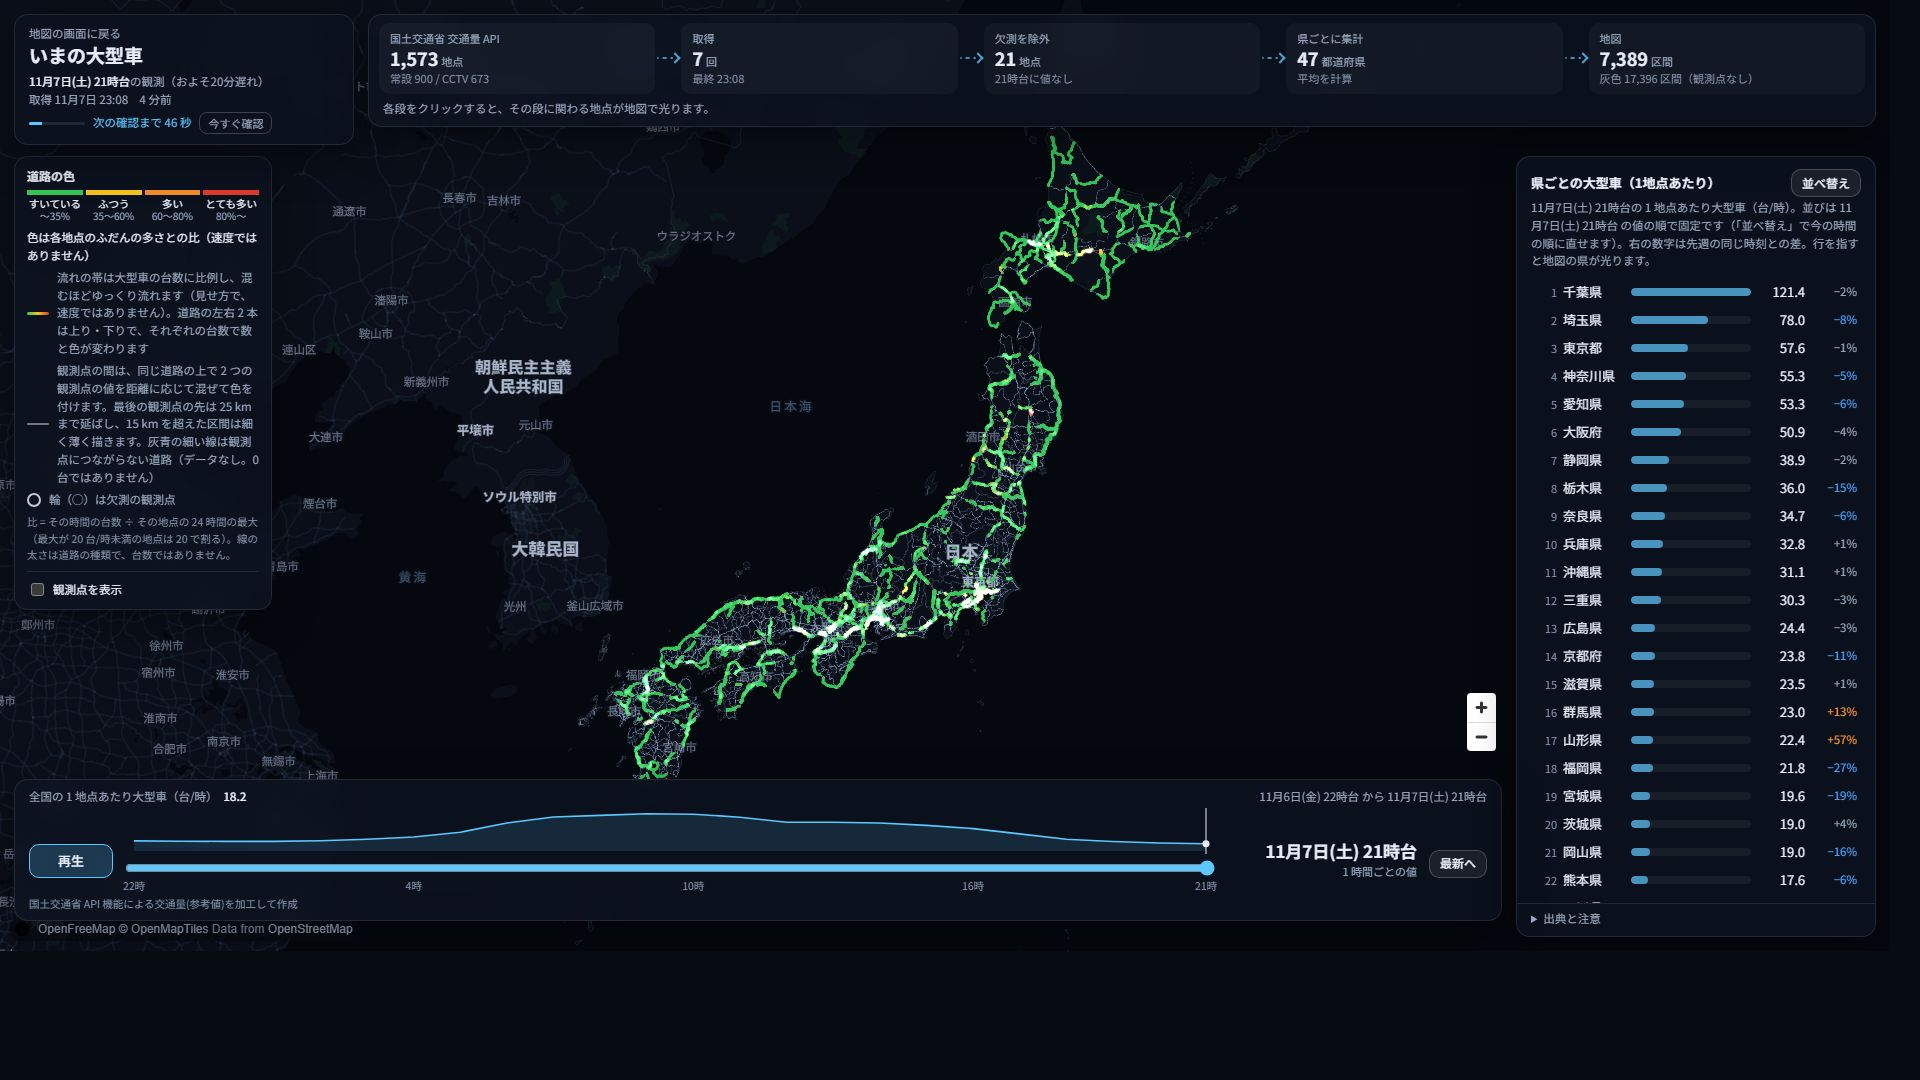
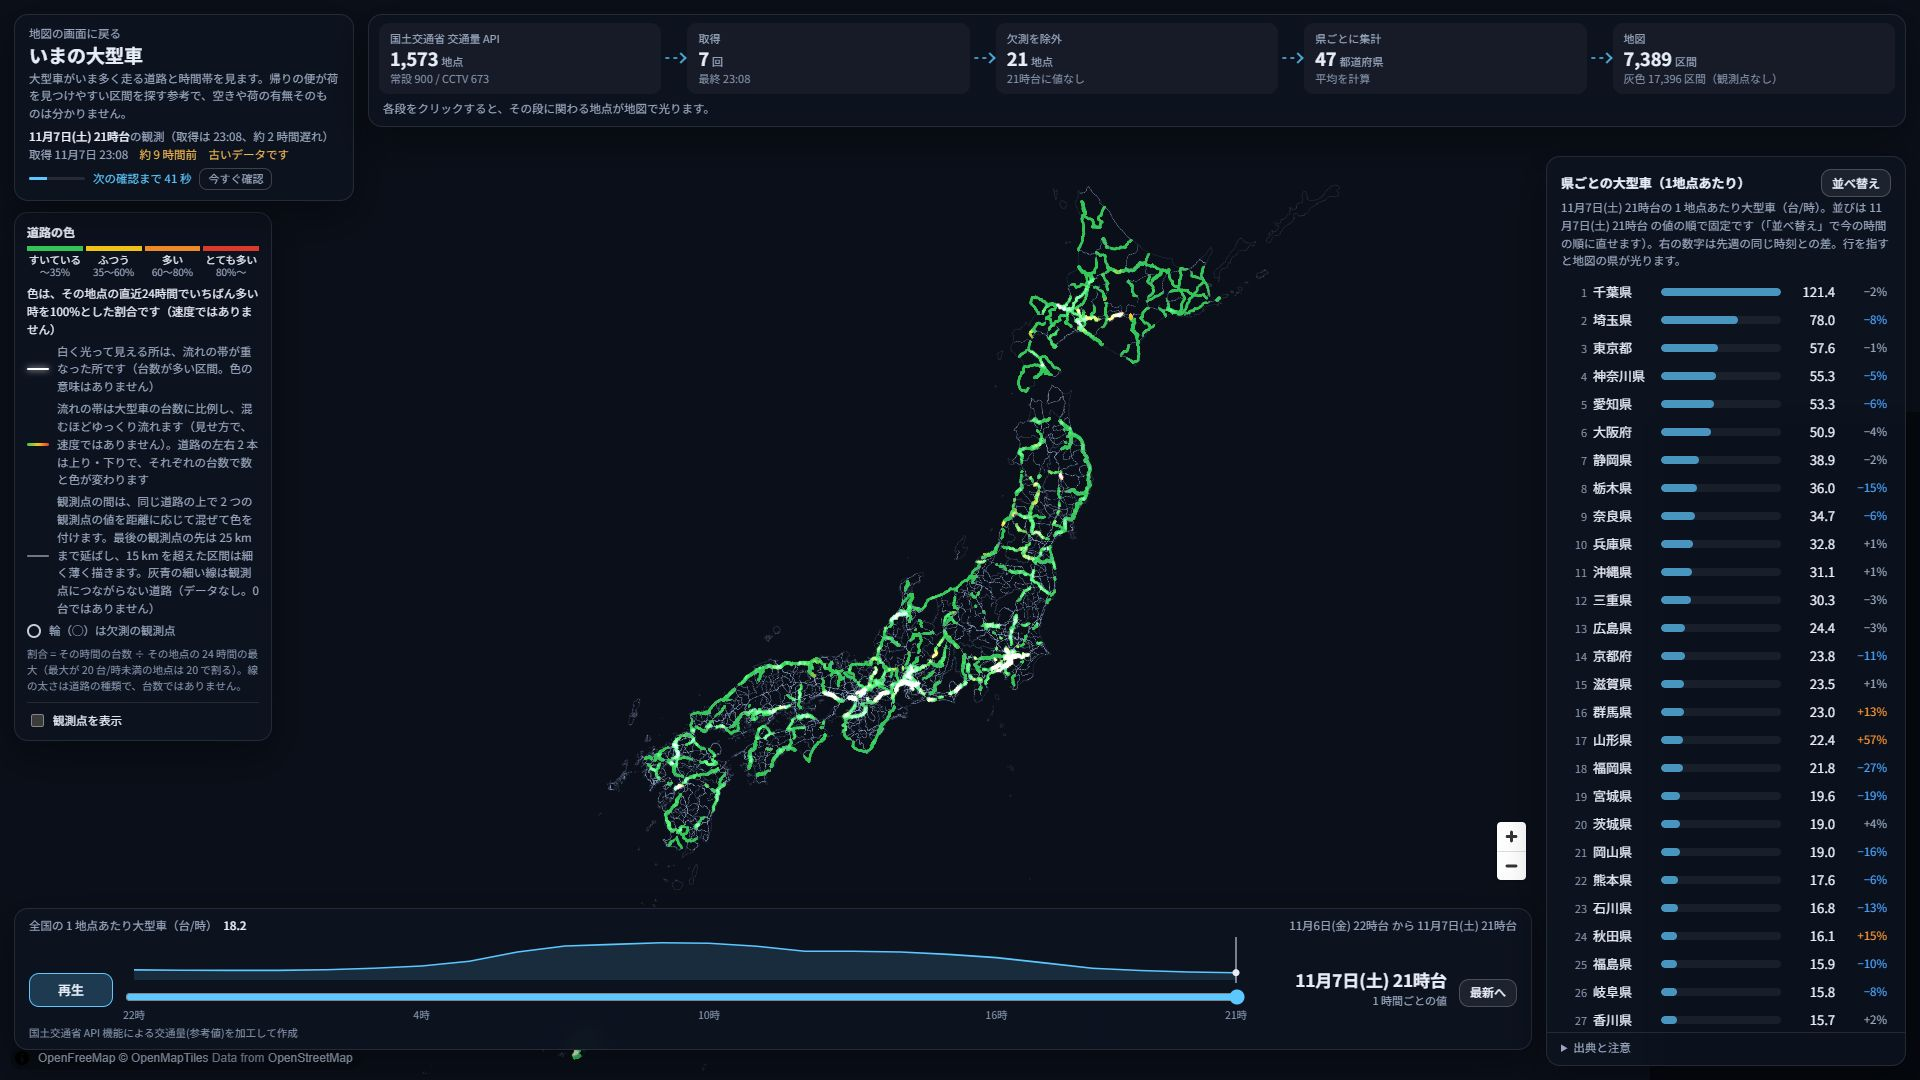
README: retake screenshots on the current build; add a shipper-side figure
採点 r4c の P1: 比べるページの画像が古い版のまま（使える送り方 5）だった。5 枚とも今の版で撮り直した。荷主の側の困りごとに、一次資料で照合済みの数字（物流費の増加を価格に転嫁できていない中小企業 67.7%、日商 2024、課題の出典 A2）を足した。

diff --git a/README.md b/README.md
@@ -30,9 +30,10 @@
 |---:|---|---|
 | 69% と 21% | 荷待ちが起きていると答えた割合。実運送の会社は約 69%、荷主（出荷）は約 21% | 国土交通省「トラック輸送状況の実態調査」（荷主 666 社・運送事業者 984 社、2022 年） |
 | 3〜5 割 | 荷役料金・待機時間料を荷主から受け取れている実運送の会社 | 国土交通省「『標準的な運賃』の見直しについて」2024-01（令和 3 年度の実態調査） |
+| 67.7% | 物流費が上がったと答えた中小企業のうち、その分を価格に転嫁できていない割合（荷主の側の困りごと） | 日本商工会議所「中小企業における物流効率化の取組み等について」2024-08（有効回答 1,994 社） |
 | 1 年 | 2025 年 4 月から、10 両以下の会社も全車両で、荷待ち 30 分以上・荷役 1 時間以上を業務記録に書き、1 年残す義務がある | 貨物自動車運送事業輸送安全規則 第 8 条第 1 項第 7 号・第 8 号 |
 
-一次資料での照合は [docs/plan/2026-11-03_課題の出典.md](docs/plan/2026-11-03_課題の出典.md)（B6・B9、照合 111 件・不一致 0 件）と [docs/plan/2026-11-04_自社データの形と記録義務の調査.md](docs/plan/2026-11-04_自社データの形と記録義務の調査.md) にあります。
+一次資料での照合は [docs/plan/2026-11-03_課題の出典.md](docs/plan/2026-11-03_課題の出典.md)（A2・B6・B9、照合 111 件・不一致 0 件）と [docs/plan/2026-11-04_自社データの形と記録義務の調査.md](docs/plan/2026-11-04_自社データの形と記録義務の調査.md) にあります。
 
 ## 届いていない人と、その人を阻む壁
 
@@ -74,7 +75,7 @@
 
 ![採点の推移](docs/assets/2026-11-07_score_history.svg)
 
-6 日間で 291 件のコミットと 2,189 件の自動試験を作りました。前の点を知らない Opus に、審査員・配車担当・荷主の役で採点させ、点が頭打ちになったら基準か作り方を替えました（採点・監査の記録 101 件）。最初に作った見積比較の画面は 11/3 に捨て、地図を中心に作り直しています。
+6 日間で 292 件のコミットと 2,193 件の自動試験を作りました。前の点を知らない Opus に、審査員・配車担当・荷主の役で採点させ、点が頭打ちになったら基準か作り方を替えました（採点・監査の記録 101 件）。最初に作った見積比較の画面は 11/3 に捨て、地図を中心に作り直しています。
 
 | 日 | 分かったこと | 変えたこと |
 |---|---|---|
@@ -127,7 +128,7 @@
 
 | 日 | 11/3 | 11/4 | 11/5 | 11/6 | 11/7 | 11/8 |
 |---|---:|---:|---:|---:|---:|---:|
-| コミット | 42 | 16 | 72 | 38 | 60 | 63 |
+| コミット | 42 | 16 | 72 | 38 | 60 | 64 |
 
 キックオフは 2026-11-02 12:00 です。
 
@@ -167,7 +168,7 @@ uv run pytest -n 8
 | `tools/serve_web.py` | 標準ライブラリだけの配信サーバーと API |
 | `web/` | 地図の画面（MapLibre + deck.gl）とファイル 1 枚のページ。`own_calc.js`・`waiting_calc.js` は Python と同じ結果になる JS（共通の試験表で確かめる） |
 | `data/` | 運賃・標準的運賃の表・場面・架空の便とサンプル（出典・確認日つき） |
-| `tests/` | 自動試験 2,189 件。GitHub Actions でも流す（`.github/workflows/test.yml`） |
+| `tests/` | 自動試験 2,193 件。GitHub Actions でも流す（`.github/workflows/test.yml`） |
 
 ## もっと読む
 

diff --git a/docs/CLAUDE_USAGE.md b/docs/CLAUDE_USAGE.md
@@ -13,8 +13,8 @@
 | サブエージェントの起動 | 298 回 | Agent の呼び出し |
 | サブエージェントの応答のうち Sonnet | 74%（Sonnet 24,365・Opus 8,691・Haiku 7） | サブエージェントの記録の model |
 | Workflow（複数の採点者を同時に動かす台本） | 11 回 | Workflow の呼び出し |
-| コミット | 291 | `git rev-list --count origin/claude/exciting-bell-uj2kvl` |
-| 自動試験 | 2,189 件 | `uv run pytest --collect-only -q` |
+| コミット | 292 | `git rev-list --count origin/claude/exciting-bell-uj2kvl` |
+| 自動試験 | 2,193 件 | `uv run pytest --collect-only -q` |
 | 採点・監査の記録 | 101 件 | `docs/reviews/*.md` |
 | 一次資料の照合 | 111 件（不一致 0 件） | `docs/plan/2026-11-03_課題の出典.md` |
 
@@ -22,7 +22,7 @@
 
 | 1 人では難しいこと | Claude Code でどうしたか | 記録 |
 |---|---|---|
-| 6 日で、試験 2,189 件つきのアプリを作る | 本線が仕様と受入条件を書き、coder（Sonnet）を git worktree で最大 5 人同時に動かした。実行中の coder に SendMessage で直しを足した | `SPEC.md` の §1〜§53 |
+| 6 日で、試験 2,193 件つきのアプリを作る | 本線が仕様と受入条件を書き、coder（Sonnet）を git worktree で最大 5 人同時に動かした。実行中の coder に SendMessage で直しを足した | `SPEC.md` の §1〜§53 |
 | 自分の作ったものを、甘くない目で何度も採点する | 前の点を知らない新しい Opus に、審査員・配車担当・荷主の役で採点させ、点が頭打ちになったら基準を替えた（第 1〜8 部） | [試行錯誤の記録](試行錯誤の記録.md) |
 | 物流の実体験が無いまま、法令と統計で課題を確かめる | researcher（Opus）が一次資料を開いて照合し、ページと表の位置まで記録した | `docs/plan/2026-11-03_課題の出典.md`、`2026-11-04_自社データの形と記録義務の調査.md` |
 | 3D・画像・動画の編集を 1 人で回す | Blender・ComfyUI・DaVinci Resolve を MCP から動かし、仕上がりを画像の一覧で確かめた | `docs/LOCAL_AI.md`、`docs/video/` |

diff --git a/docs/試行錯誤の記録.md b/docs/試行錯誤の記録.md
@@ -6,11 +6,11 @@
 
 | 項目 | 値 | 確かめ方 |
 |---|---:|---|
-| コミット（提出のブランチ） | 291 | `git rev-list --count HEAD`（2026-11-08 07:36 の時点） |
+| コミット（提出のブランチ） | 292 | `git rev-list --count HEAD`（2026-11-08 07:38 の時点） |
 | 採点・監査の記録 | 101 件 | `docs/reviews/*.md` |
 | 計画・判断の記録 | 35 件 | `docs/plan/*.md` |
 | 採点の基準を替えた回数 | 8 部（第 1〜8 部）＋動画の脚本 | [採点の推移](reviews/2026-11-05_筋書き_採点の推移.md) |
-| 自動試験 | 127 → 727 → 1,442 → 2,189 件 | `uv run pytest --collect-only -q` |
+| 自動試験 | 127 → 727 → 1,442 → 2,193 件 | `uv run pytest --collect-only -q` |
 
 | 日 | コミット | 自動試験 |
 |---|---:|---:|
@@ -19,7 +19,7 @@
 | 11/5 | 72 | 727 → 764 |
 | 11/6 | 38 | 1,442 |
 | 11/7 | 60 | 1,956（集めた数） |
-| 11/8 | 63 | 2,083（集めた数） |
+| 11/8 | 64 | 2,083（集めた数） |
 
 ## 採点の推移
 
